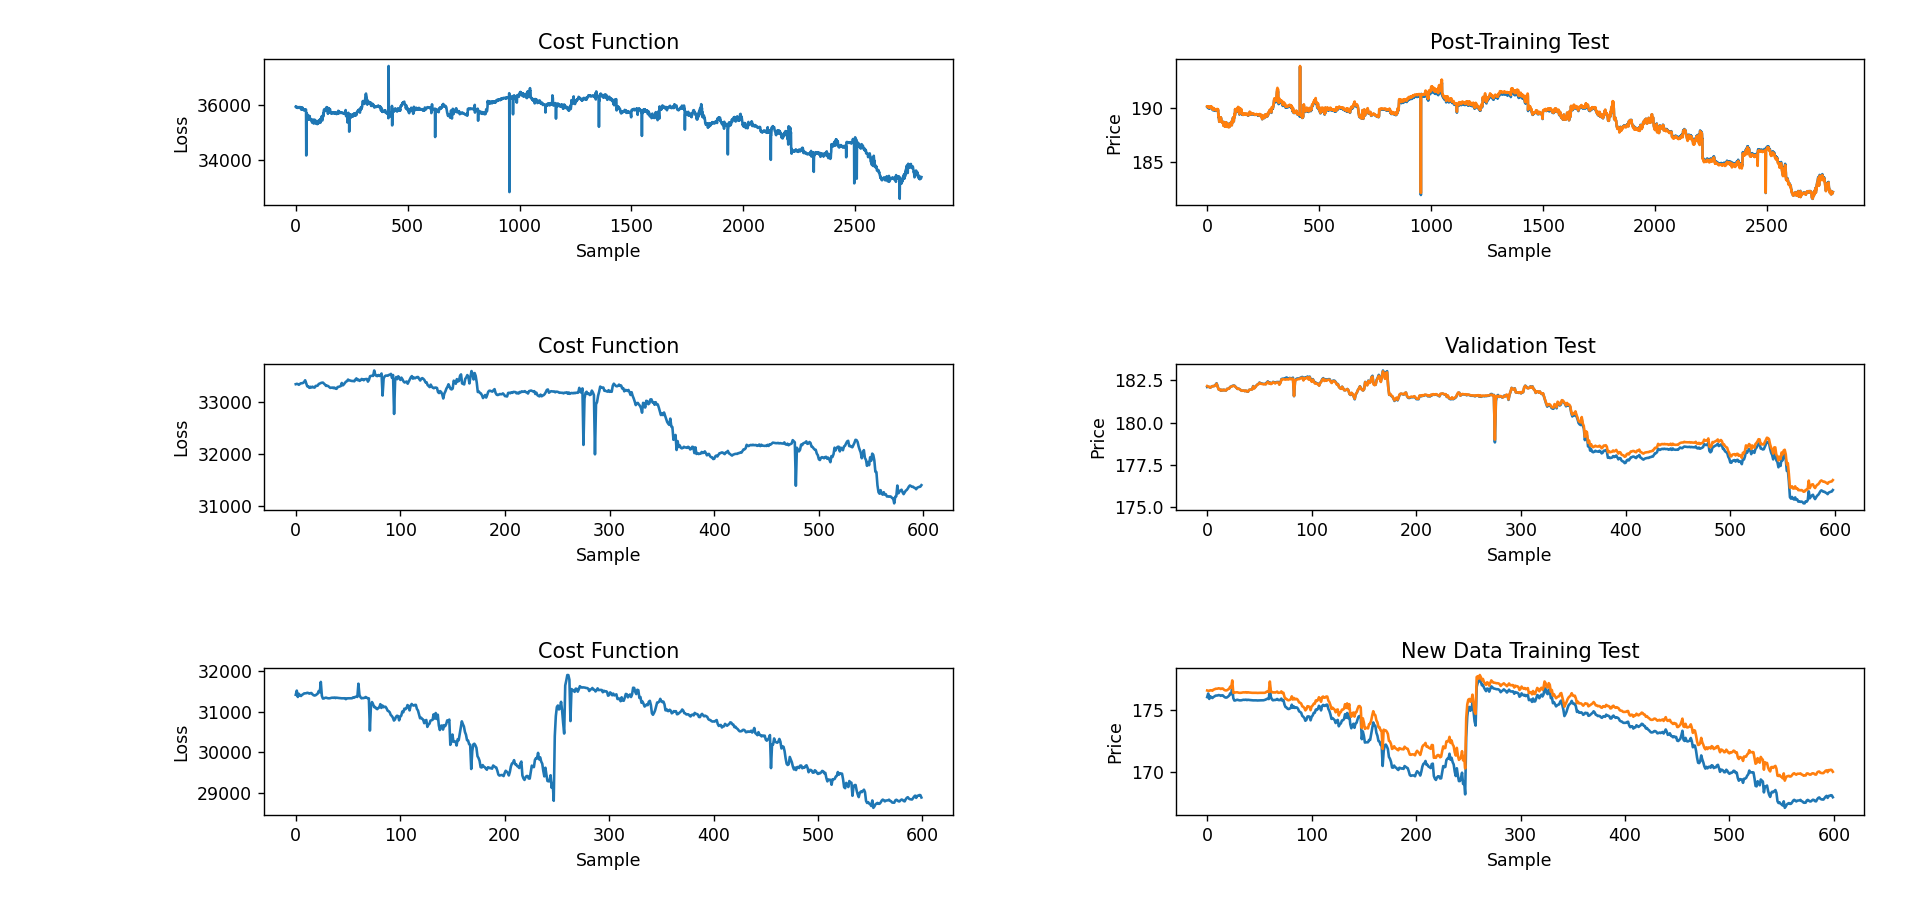
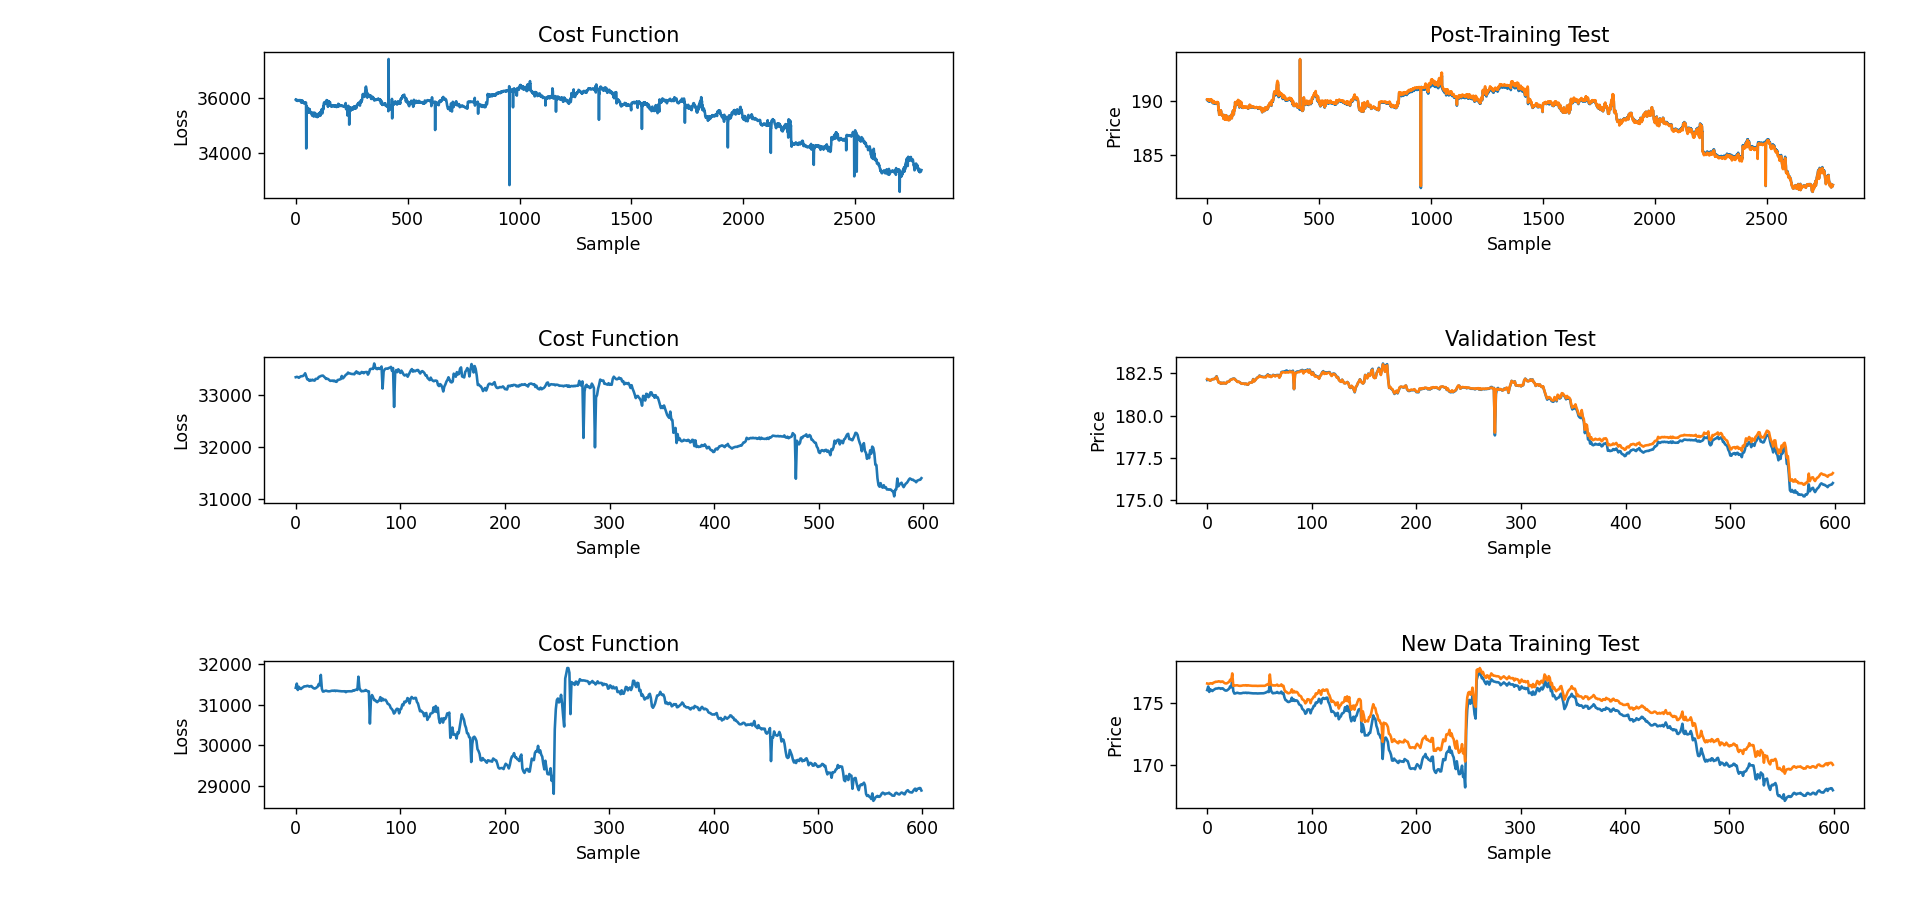
Update README

diff --git a/helpers/DataAnalyzer.py b/helpers/DataAnalyzer.py
@@ -26,7 +26,7 @@ class DataAnalyzer:
         data = pd.read_csv(path, index_col=0)
         data = data.ffill()
 
-        data["open"].head(3500)
+        data["open"].tail(3500)
 
         mean_values = np.mean(data[STOCK_PREDICTORS], axis=0)
         std_dev_values = np.std(data[STOCK_PREDICTORS], axis=0)

diff --git a/README.md b/README.md
@@ -1,4 +1,4 @@
 # RNN-reusable-version
  One to one rnn to predict stock market prices. Currenlty this model predicts prices accuranlty to 1.7 day in future.
 
-![Result Image](img/chart.png)
+![Result Image](img/Chart.png)
